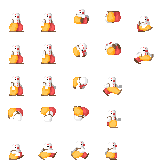
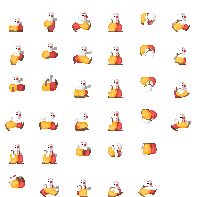
updated jump anim

diff --git a/apps/movement/src/app/entities/player.ts b/apps/movement/src/app/entities/player.ts
@@ -5,6 +5,7 @@ import {
   CollisionType,
   Color,
   Engine,
+  vec,
 } from 'excalibur';
 import { fragmentSource, vertexSource } from '@shader/outline';
 import { MobilityComponent } from '../components/mobility';
@@ -37,6 +38,22 @@ const walk = new Animation({
   strategy: AnimationStrategy.Loop,
 });
 
+const run = new Animation({
+  frames: generateFramesByName(clownSheet, 0, 5, 'run_').map((i) => ({
+    graphic: clownSheet.sprites[i],
+    duration: 80,
+  })),
+  strategy: AnimationStrategy.Loop,
+});
+
+const leap = new Animation({
+  frames: generateFramesByName(clownSheet, 0, 5, 'leap_').map((i) => ({
+    graphic: clownSheet.sprites[i],
+    duration: 40,
+  })),
+  strategy: AnimationStrategy.Freeze,
+});
+
 const tumble = new Animation({
   frames: generateFramesByName(clownSheet, 0, 7, 'tumble_').map((i) => ({
     graphic: clownSheet.sprites[i],
@@ -48,6 +65,8 @@ const tumble = new Animation({
 class PlayerActor extends Actor {
   state: State = States.stand;
   timeInState = 0;
+  //which foot was last used to leap
+  foot = 0;
 
   constructor({ x = 120, y = 80 }: { x?: number; y?: number } = {}) {
     super({
@@ -88,6 +107,11 @@ class PlayerActor extends Actor {
     }
     //@ts-expect-error speed exists as long as the player always has an animation active
     this.graphics.current.speed = 1;
+    /**
+     * set the offset of the graphics back to nothing.
+     * TODO this will eventually be per-frame to assist with animation
+     */
+    this.graphics.offset = vec(0, 0);
 
     const mobility = this.get(MobilityComponent);
     const touching = this.get(TouchingComponent);
@@ -111,23 +135,30 @@ class PlayerActor extends Actor {
         }
         break;
       case States.jump:
+        if (this.timeInState === 0) {
+          this.foot = (this.foot + 1) % 2;
+        }
         stand.pause();
-        this.graphics.use(stand);
+        this.graphics.offset = vec(0, 6);
+        leap.goToFrame(0);
+        this.graphics.use(leap);
         break;
       case States.rise:
-        tumble.pause();
-        tumble.goToFrame(1);
-        this.graphics.use(tumble);
+        this.graphics.offset = vec(0, 3);
+        leap.goToFrame(this.foot + 1);
+        this.graphics.use(leap);
         break;
       case States.apex:
-        tumble.pause();
-        tumble.goToFrame(0);
-        this.graphics.use(tumble);
+        leap.goToFrame(3);
+        this.graphics.use(leap);
         break;
       case States.fall:
-        tumble.pause();
-        tumble.goToFrame(7);
-        this.graphics.use(tumble);
+        leap.goToFrame(4);
+        this.graphics.use(leap);
+        break;
+      case States.plummet:
+        leap.goToFrame(5);
+        this.graphics.use(leap);
         break;
       default:
         console.log('unhandled state:', nextState);

diff --git a/apps/movement/src/app/entities/player-anim-state.ts b/apps/movement/src/app/entities/player-anim-state.ts
@@ -10,6 +10,7 @@ const StateLiterals = [
   'rise',
   'apex',
   'fall',
+  'plummet',
 ] as const;
 
 const States = Object.fromEntries(StateLiterals.map((s) => [s, s])) as {
@@ -72,18 +73,26 @@ const AnimFSM = {
     if ((context?.timeInState ?? 0) > 1) return States.rise;
     return States.jump;
   },
-  [States.rise]: function (body, touching) {
+  [States.rise]: function (body, touching, context) {
+    if (body.vel.y < -290) return States.jump;
     if (touching[Side.Top].size > 0) return States.apex;
     if (body.vel.y > -60) return States.apex;
+    if ((context?.timeInState ?? 0) > 4) return States.apex;
     return States.rise;
   },
   [States.apex]: function (body) {
+    if (body.vel.y < -290) return States.jump;
     if (body.vel.y > 60) return States.fall;
     return States.apex;
   },
   [States.fall]: function (body, touching) {
+    if (body.vel.y < -290) return States.jump;
+    if (body.vel.y > 900) return States.plummet;
     if (touching[Side.Bottom].size > 0) return this.stand(body, touching);
     return States.fall;
+  },
+  [States.plummet]: function (body, touching, context?) {
+    return this[States.fall](body, touching, context);
   },
 } as const satisfies StateMachine;
 
